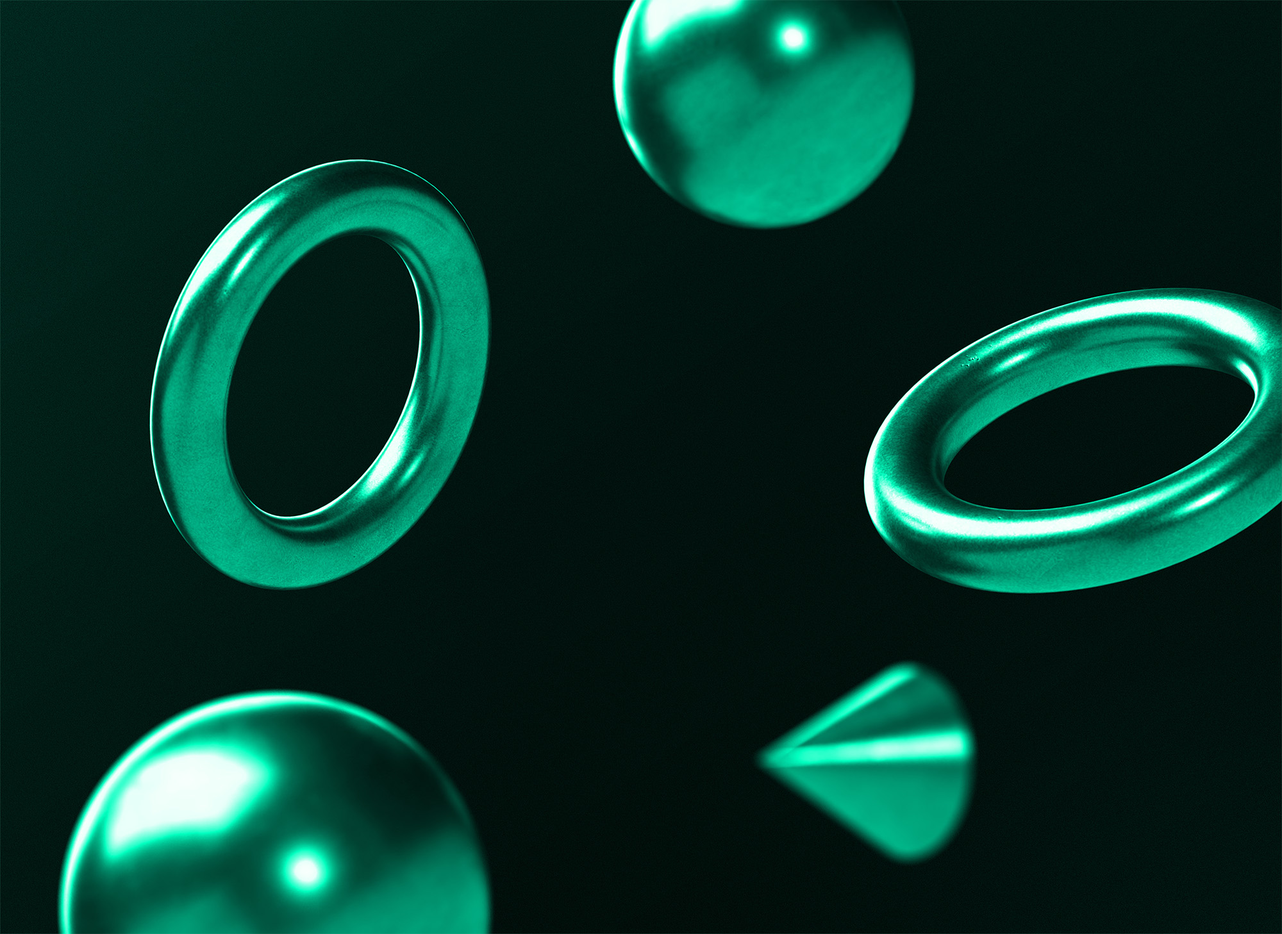
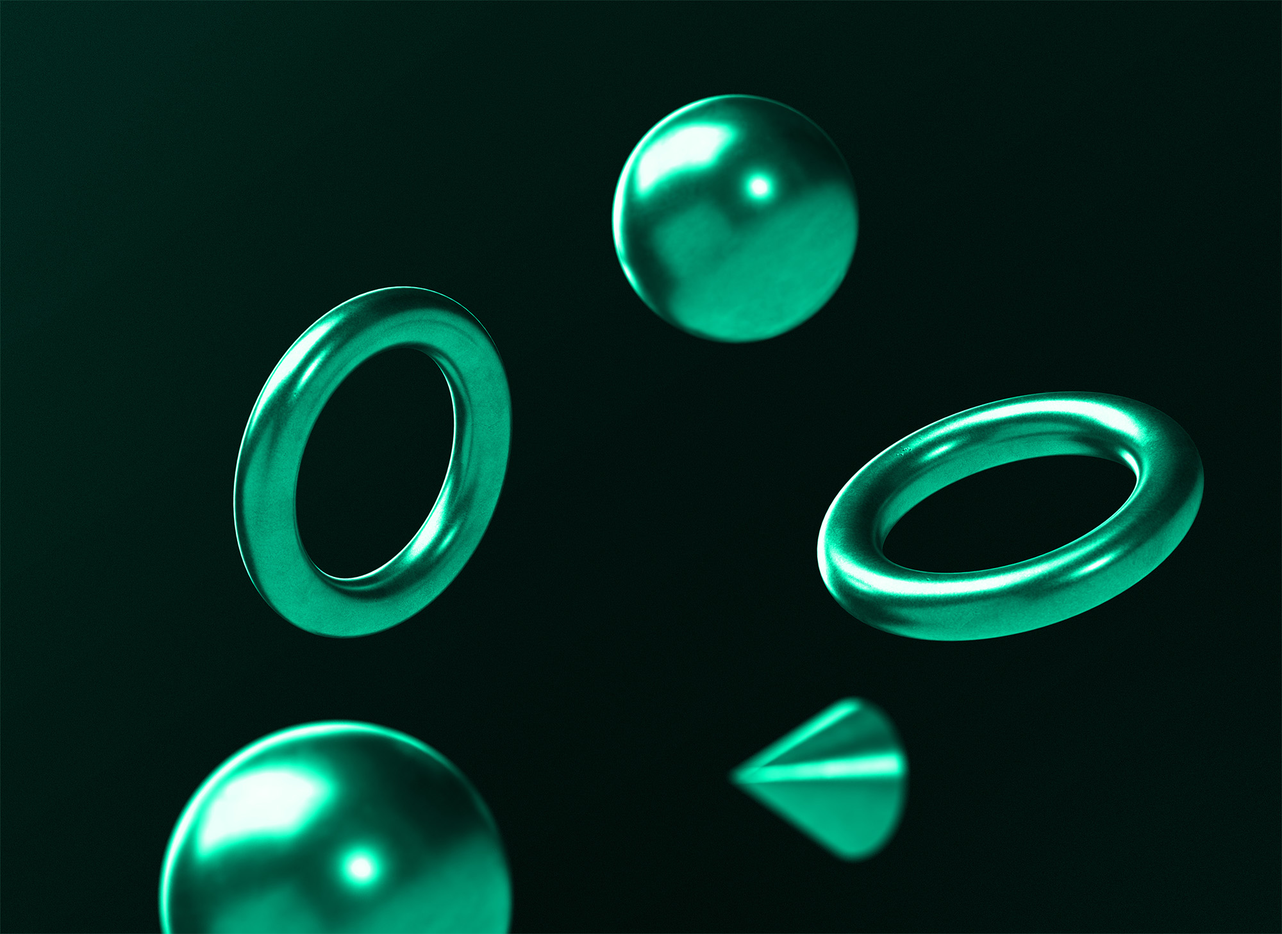
Background modified. Primary Color Changed. WIP. care.

diff --git a/packages/nextjs/tailwind.config.js b/packages/nextjs/tailwind.config.js
@@ -9,7 +9,7 @@ module.exports = {
     themes: [
       {
         light: {
-          primary: "#93BBFB",
+          primary: "#01c292",
           "primary-content": "#212638",
           secondary: "#DAE8FF",
           "secondary-content": "#212638",
